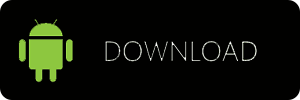
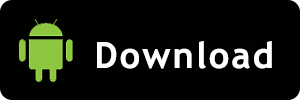
Change game name & android image's text

Changed region(s): [[0.3, 0.39, 0.93, 0.69]]

diff --git a/index.html b/index.html
@@ -22,7 +22,7 @@
 <p>MarvelousJ is an Indie game development studio. We want to make funny game for everybody.</p>
 
 <h3>
-<a id="city-pursuit" class="anchor" href="#city-pursuit" aria-hidden="true"><span aria-hidden="true" class="octicon octicon-link"></span></a>City Pursuit</h3>
+<a id="city-pursuit" class="anchor" href="#city-pursuit" aria-hidden="true"><span aria-hidden="true" class="octicon octicon-link"></span></a>Crazy Racing : Cops Smasher</h3>
 
 <p>You are wanted! Cops are coming for you! Take your driving to escape from cops, though the city.</p>
 
